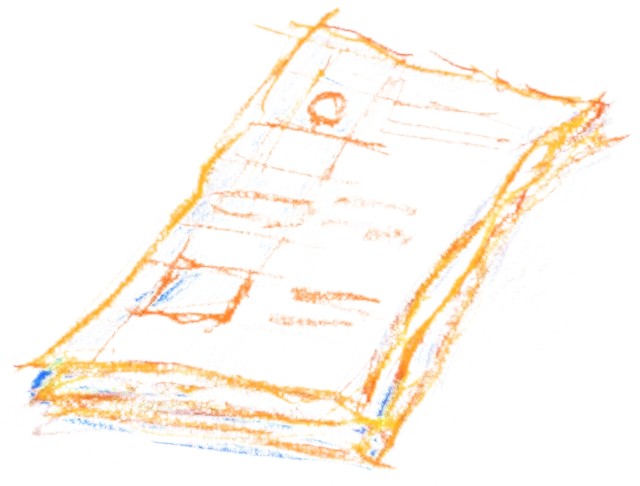
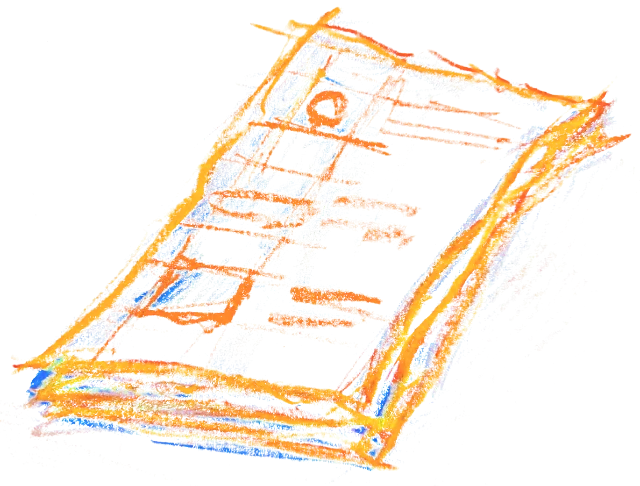
Experiment: objects back to their original line weight (laptop and camera stay thinner); character in chalk crayon like the objects

Changed region(s): [[0.0, 0.0, 1.0, 0.9877], [0.4062, 0.5864, 0.5938, 0.679]]

diff --git a/index.html b/index.html
@@ -752,8 +752,9 @@
   #figSvg .hpen, #hero .hpen { stroke: #ece8dc; }
   #heroLine .hword { fill: #ece8dc; }
   /* the character and the "scroll" bubble: as they were, only in a waxier crayon (same lines, same size, same colours) */
-  #scene #figure .ln, #scene #leg0, #scene #leg1, #scene #arm { filter: url(#crayon); }
-  #heroFig .hpen, #figSvg #heroScroll { filter: url(#crayon); }
+  #scene #figure .ln, #scene #leg0, #scene #leg1, #scene #arm { stroke-width: 1.8; filter: url(#chalkFig); }
+  #figSvg #hfLeg0, #figSvg #hfLeg1, #figSvg #hfBody, #figSvg #hfArm { stroke-width: 2.8px; filter: url(#chalkFig); }   /* (the character in chalk crayon, like the objects) */
+  #figSvg #hfBubblePath, #figSvg #heroScroll { filter: url(#crayon); }
   @media (min-width: 821px), (min-aspect-ratio: 85/100) { #workPage { --pen: #ece8dc; } #workPage .wpFrame { stroke: #ece8dc; } }
 </style>
 </head>
@@ -1602,6 +1603,19 @@
       <feColorMatrix in="n" type="matrix" values="0 0 0 0 0  0 0 0 0 0  0 0 0 0 0  -2.2 0 0 0 1.75" result="wax"></feColorMatrix>
       <feComposite in="SourceGraphic" in2="wax" operator="in" result="c"></feComposite>
       <feDisplacementMap in="c" in2="n" scale="2.2" xChannelSelector="G" yChannelSelector="B"></feDisplacementMap>
+    </filter>
+    <!-- chalk crayon for the character, like the object drawings: the lines (not the fill) become speckled warm chalk
+         with a slight wobble; the black fill underneath stays -->
+    <filter id="chalkFig" x="-25%" y="-10%" width="150%" height="120%" color-interpolation-filters="sRGB">
+      <feColorMatrix in="SourceGraphic" type="luminanceToAlpha" result="lines"></feColorMatrix>
+      <feTurbulence type="fractalNoise" baseFrequency="1.3" numOctaves="2" seed="9" result="g"></feTurbulence>
+      <feColorMatrix in="g" type="matrix" values="0 0 0 0 0.95  0 0 0 0 0.9  0 0 0 0 0.85  -2.6 0 0 0 1.9" result="grain"></feColorMatrix>
+      <feComposite in="grain" in2="lines" operator="in" result="chalk"></feComposite>
+      <feTurbulence type="fractalNoise" baseFrequency="0.05" numOctaves="2" seed="4" result="w"></feTurbulence>
+      <feDisplacementMap in="chalk" in2="w" scale="2.6" xChannelSelector="R" yChannelSelector="G" result="drawn"></feDisplacementMap>
+      <feFlood flood-color="#000" result="ink"></feFlood>
+      <feComposite in="ink" in2="SourceAlpha" operator="in" result="fill"></feComposite>
+      <feMerge><feMergeNode in="fill"></feMergeNode><feMergeNode in="drawn"></feMergeNode></feMerge>
     </filter>
     <!-- crayon: coarser, waxier gaps -->
     <filter id="crayon" x="-5%" y="-5%" width="110%" height="110%">
